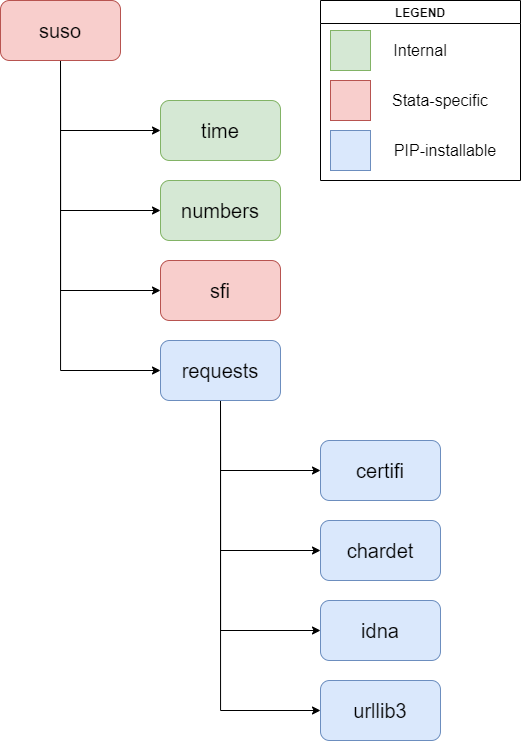
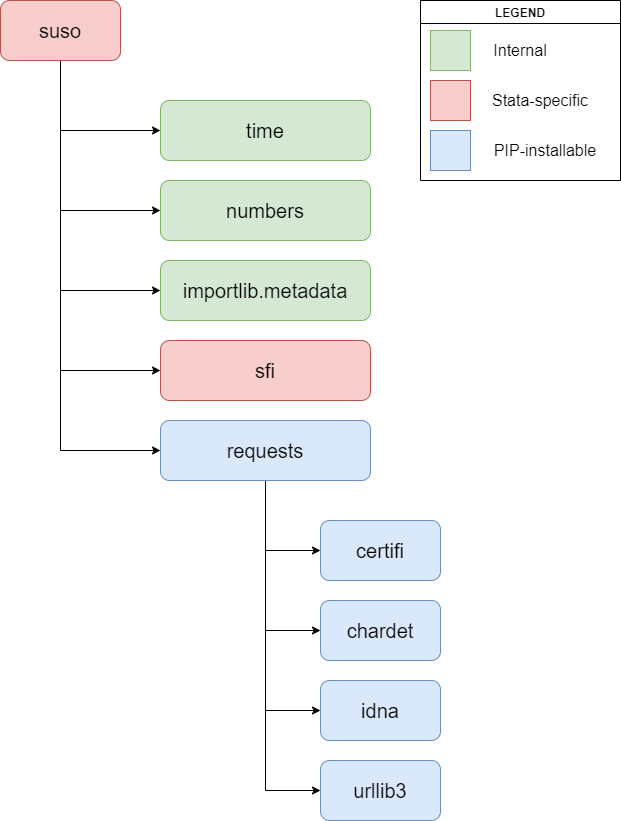
Branch 'role' vs 'roles' to account for breaking change in Survey Solutions v21.05. Added health check reporting stata file sizes and checksums and python modules versions. Added reporting variants of the server version. Changed order of reporting to display at least some information even when there

Changed region(s): [[0.0, 0.0, 1.0, 1.0]]

diff --git a/manual/s_client.tex b/manual/s_client.tex
@@ -17,14 +17,19 @@ control of a Survey Solutions data server from Stata scripts.
 \vskip16pt
 \subsection{Compatibility with The World Bank Survey Solutions:}
 \begin{itemize}
-  \item This software has been written with Survey Solutions v21.01.8 in mind,
-        which is the current version at the time of this writing.
+  \item This software has been originally written with Survey Solutions
+        v21.01.8 in mind and has been updated for v21.09.5, which is the
+        current version at the time of this writing.
   \item Earlier versions may not implement all the functionality that is
         required for it, please update the Survey Solutions server.
   \item Future versions of Survey Solutions may change the behavior of the
         quieries or the formats of responses. If you encounter any
-        incompatibility, please check the \href{https://docs.mysurvey.solutions/release_notes}{release notes} of Survey Solutions
-        and see if an update is available for this API client.
+        incompatibility, please check the
+        \href{https://docs.mysurvey.solutions/release_notes}{release notes} of Survey Solutions and see if an update is available for this
+        API client. Feel free to raise an issue at the
+        \href{https://github.com/radyakin/susoapi}{source distribution
+        site}, or discuss the problem in the
+        \href{https://forum.mysurvey.solutions}{Survey Solutions Users' Forum}.
 \end{itemize}
 
 \vskip16pt
